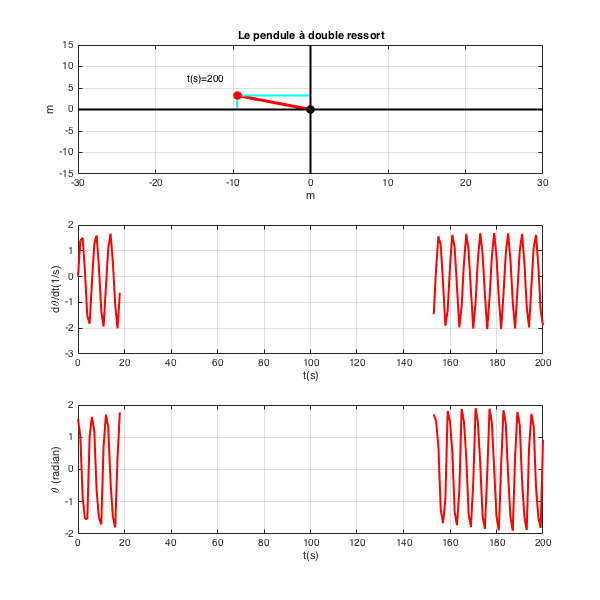
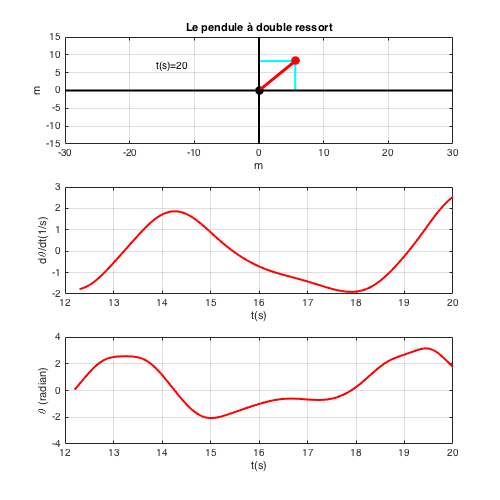
tests A

diff --git a/Matlab/diagramme_base.m b/Matlab/diagramme_base.m
@@ -63,9 +63,9 @@ for i=2:max(size(theta))
   subplot(3,1,2);
   box on;grid on;
 
-  line(t(i-1:i),theta(i-1:i,1),'Color','r','LineWidth',2);
-%   line(t(i-1:i),theta2(i-1:i,1),'Color','b','LineWidth',2);
-%   line(t(i-1:i),theta3(i-1:i,1),'Color','g','LineWidth',2);
+  line(t(i-1:i),theta(i-1:i,2),'Color','r','LineWidth',2);
+%   line(t(i-1:i),theta2(i-1:i,2),'Color','b','LineWidth',2);
+%   line(t(i-1:i),theta3(i-1:i,2),'Color','g','LineWidth',2);
   xlabel('t(s)');
   ylabel('d\theta/dt(1/s)'); % Pendule 1 rouge - Pendule 2 bleu
   drawnow;
@@ -80,9 +80,9 @@ for i=2:max(size(theta))
   subplot(3,1,3);
   box on;grid on;
   
-  line(t(i-1:i),theta(i-1:i,2),'Color','r','LineWidth',2);
-%   line(t(i-1:i),theta2(i-1:i,2),'Color','b','LineWidth',2);
-%   line(t(i-1:i),theta3(i-1:i,2),'Color','g','LineWidth',2);
+  line(t(i-1:i),theta(i-1:i,1),'Color','r','LineWidth',2);
+%   line(t(i-1:i),theta2(i-1:i,1),'Color','b','LineWidth',2);
+%   line(t(i-1:i),theta3(i-1:i,1),'Color','g','LineWidth',2);
   xlabel('t(s)');
   ylabel('\theta (radian)'); %% Pendule 1 rouge - Pendule 2 bleu
   drawnow;

diff --git a/Matlab/main.m b/Matlab/main.m
@@ -5,11 +5,10 @@
 % VERT = PENDULE 3 idem pendule si besoin (bifurcation)
 
 global k k1 k2 m l l1 l2 Longueur l0 A omega x0 x1 x2 time
-m=5;k1=5;k2=10;l=10;k=0;A=0;omega=0.1;l1=l/2;l2=l/2;
-
+m=5;k1=5;k2=10;l=10;k=0;A=500;omega=2;l1=l/2;l2=l/2;
 %%% Conditions Initiales %%%
-% note: x = [theta.0, theta0]
-x0 = [0 pi/2];
+% note: x = [theta, theta0.]
+x0 = [1.1708 0];
 x1 = [1.15 1.8];
 x2 = [1.1508 0];
 
@@ -20,7 +19,7 @@ x2 = [1.1508 0];
 
 
 %%% DIAGRAMME DE BASE %%%
-time = [0:1:200];
+time = [0:0.2:60];
 diagramme_base()
 
 %%% DIAGRAMME DE PHASE %%%
